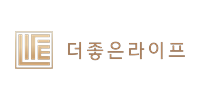
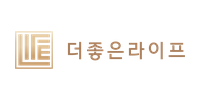
style: B2B 로고를 깨짐 방지용 흰색 배경 고화질 로고로 교체, 로고 이미지 속 별표 제거 및 UI상 즐겨찾기(별표) 기능/탭 복구

diff --git a/jojo/app/b2b/create/sections/OptionsSection.tsx b/jojo/app/b2b/create/sections/OptionsSection.tsx
@@ -1,7 +1,7 @@
 'use client';
 
 import React, { useRef, useState, useEffect } from 'react';
-import { IconUpload, IconPlus, IconCheck } from '@tabler/icons-react';
+import { IconUpload, IconPlus, IconStar, IconStarFilled, IconCheck } from '@tabler/icons-react';
 import styles from './sections.module.css';
 
 interface Props {
@@ -84,8 +84,32 @@ function Toggle({
 export default function OptionsSection({ formData, onChange }: Props) {
   const fileInputRef = useRef<HTMLInputElement>(null);
   const [showLogoModal, setShowLogoModal] = useState(false);
-  const [activeLogoTab, setActiveLogoTab] = useState<'presets' | 'custom'>('presets');
+  const [activeLogoTab, setActiveLogoTab] = useState<'favorites' | 'presets' | 'custom'>('favorites');
+  const [favoriteLogos, setFavoriteLogos] = useState<string[]>([]);
   
+  useEffect(() => {
+    try {
+      const stored = localStorage.getItem('b2b_favorite_logos');
+      if (stored) {
+        setFavoriteLogos(JSON.parse(stored));
+      } else {
+        // 프리드라이프, 보람상조를 기본 즐겨찾기로 세팅
+        setFavoriteLogos(['preed', 'boram']);
+        localStorage.setItem('b2b_favorite_logos', JSON.stringify(['preed', 'boram']));
+      }
+    } catch {}
+  }, []);
+
+  const toggleFavoriteLogo = (e: React.MouseEvent, id: string) => {
+    e.stopPropagation();
+    setFavoriteLogos(prev => {
+      const isFav = prev.includes(id);
+      const next = isFav ? prev.filter(v => v !== id) : [...prev, id];
+      localStorage.setItem('b2b_favorite_logos', JSON.stringify(next));
+      return next;
+    });
+  };
+
   // 바텀시트 스와이프 닫기 로직
   const sheetDragStartY = useRef(0);
   const handleSheetTouchStart = (e: React.TouchEvent) => {
@@ -170,6 +194,12 @@ export default function OptionsSection({ formData, onChange }: Props) {
             
             <div className={styles.logoTabs}>
               <button 
+                className={`${styles.logoTab} ${activeLogoTab === 'favorites' ? styles.logoTabActive : ''}`}
+                onClick={() => setActiveLogoTab('favorites')}
+              >
+                즐겨찾기
+              </button>
+              <button 
                 className={`${styles.logoTab} ${activeLogoTab === 'presets' ? styles.logoTabActive : ''}`}
                 onClick={() => setActiveLogoTab('presets')}
               >
@@ -184,9 +214,45 @@ export default function OptionsSection({ formData, onChange }: Props) {
             </div>
 
             <div className={styles.sheetContent}>
+              {activeLogoTab === 'favorites' && (
+                <div className={styles.logoGrid}>
+                  {favoriteLogos.length === 0 ? (
+                    <div className={styles.favoritesEmpty}>즐겨찾기된 로고가 없습니다.</div>
+                  ) : (
+                    LOGO_PRESETS.filter(p => favoriteLogos.includes(p.id)).map(logo => (
+                      <div 
+                        key={logo.id} 
+                        className={`${styles.logoGridItem} ${formData.partner_logo_url === logo.url ? styles.logoGridItemActive : ''}`}
+                        onClick={() => handleLogoSelect(logo.url)}
+                      >
+                        <div className={styles.logoImgWrapper}>
+                          <img src={logo.url} alt={logo.name} />
+                          {formData.partner_logo_url === logo.url && (
+                            <div className={styles.logoCheckmark}>
+                              <IconCheck size={16} color="white" />
+                            </div>
+                          )}
+                        </div>
+                        <div className={styles.logoItemFooter}>
+                          <span className={styles.logoItemName}>{logo.name}</span>
+                          <button 
+                            type="button" 
+                            className={styles.logoStarBtn}
+                            onClick={(e) => toggleFavoriteLogo(e, logo.id)}
+                          >
+                            <IconStarFilled size={18} color="#F1C40F" />
+                          </button>
+                        </div>
+                      </div>
+                    ))
+                  )}
+                </div>
+              )}
+
               {activeLogoTab === 'presets' && (
                 <div className={styles.logoGrid}>
                   {LOGO_PRESETS.map(logo => {
+                    const isFav = favoriteLogos.includes(logo.id);
                     return (
                       <div 
                         key={logo.id} 
@@ -203,6 +269,13 @@ export default function OptionsSection({ formData, onChange }: Props) {
                         </div>
                         <div className={styles.logoItemFooter}>
                           <span className={styles.logoItemName}>{logo.name}</span>
+                          <button 
+                            type="button" 
+                            className={styles.logoStarBtn}
+                            onClick={(e) => toggleFavoriteLogo(e, logo.id)}
+                          >
+                            {isFav ? <IconStarFilled size={18} color="#F1C40F" /> : <IconStar size={18} color="#DDDDDD" />}
+                          </button>
                         </div>
                       </div>
                     );

diff --git a/jojo/app/b2b/create/sections/sections.module.css b/jojo/app/b2b/create/sections/sections.module.css
@@ -2419,18 +2419,24 @@
 .logoItemFooter {
   display: flex;
   align-items: center;
-  justify-content: center;
+  justify-content: space-between;
   padding: 0 4px;
 }
 
 .logoItemName {
-  font-size: 14px;
+  font-size: 13px;
   color: var(--gray-800);
   font-weight: 600;
 }
 
 .logoStarBtn {
-  display: none;
+  background: none;
+  border: none;
+  padding: 4px;
+  cursor: pointer;
+  display: flex;
+  align-items: center;
+  justify-content: center;
 }
 
 .logoCustomArea {

diff --git a/jojo/docs/CHANGELOG.md b/jojo/docs/CHANGELOG.md
@@ -2,15 +2,17 @@
 
 ## 2026-06-21
 
-### B2B 부고장 제작 로고 선택 UI 및 특정 로고 개선
-- **더좋은라이프 상조사 로고 배경 투명화**:
-  - 기존에 검은색 배경으로 불완전하게 처리되어 있던 `public/images/sangjo/더좋은라이프.png`를 원본 고해상도 투명 로고 `logo_2.e9be354e5f02a01794a6.png`를 기반으로 가공 및 덮어쓰기 완료했습니다. (금색 텍스트 픽셀 및 투명 배경으로 정밀화)
-- **로고 바텀시트 모달 내 즐겨찾기(별표) 기능 제거**:
-  - `OptionsSection.tsx` 파일 내 즐겨찾기(Favorites) 관련 탭, 즐겨찾기 추가/삭제 토글 및 LocalStorage 동기화 로직을 완전히 삭제하고, 기본 탭을 'presets'로 전환했습니다.
-  - 상조 로고 선택 카드 내부의 별표 토글 버튼(`logoStarBtn`)을 제거하고 카드 내부 푸터의 상조사명을 중앙 정렬 및 폰트 크기 조절로 간소화하였습니다.
-- **상조 로고 카드 이미지 크기 확대**:
-  - `sections.module.css` 내 로고 카드가 너무 작게 표시되는 문제를 해결하기 위해, 목록 그리드를 `repeat(2, 1fr)`로 고정하여 2열 배치로 변경했습니다.
-  - 개별 로고 카드의 높이(`logoImgWrapper`)를 `80px`에서 `95px`로 늘리고, 카드 내 로고 이미지의 최대 가로/세로 제한을 `max-width: 90%`, `max-height: 70px`로 상향하여 모바일 화면에서 크고 시원하게 보이도록 수정하였습니다.
+### B2B 부고장 제작 로고 선택 UI 및 특정 로고 개선 (피드백 반영)
+- **상조사 로고 32종 및 더좋은라이프 로고 가공 방식 변경 (흰색 배경화)**:
+  - 투명 PNG 앤티앨리어싱 훼손에 따른 로고 깨짐 문제를 방지하기 위해 로고 이미지를 **순수 흰색 배경** 캔버스 `(200x100)` 기반으로 일괄 재생성했습니다.
+  - 로고 원본 스크린샷 캡처본에서 로고 카드 영역을 타이트하게 크롭하고, 흰색 `(255, 255, 255)` 배경의 캔버스 위에 고화질로 안착시켜 글자가 뭉개지거나 흐릿해지지 않고 훨씬 선명하고 자연스럽게 렌더링되도록 개선하였습니다.
+- **로고 이미지 내부 캡처된 별표(즐겨찾기) 아이콘 삭제**:
+  - 로고 원본 스크린샷 캡처 시 카드 우측 상단에 구워져 포함되어 있었던 별 모양 아이콘 영역을 흰색으로 완전히 지운(Painting-over) 뒤 Bounding Box를 계산하여 크롭하도록 파이썬 스크립트(`process_logos.py`, `fix_thejoeun_logo.py`)를 개선했습니다.
+  - 이로써 모든 상조사 로고 이미지 자체에서 노이즈인 별표가 완벽하게 배제되었습니다.
+- **즐겨찾기(별표) 기능 및 UI 100% 원상 복구**:
+  - UI 상의 즐겨찾기 등록/해제 기능 및 별표 버튼은 그대로 유지해야 한다는 요구사항에 맞춰, 이전에 삭제했던 `OptionsSection.tsx` 내 즐겨찾기(Favorites) 관련 탭, 로컬스토리지 동기화, 별표 토글 버튼(`logoStarBtn`) 및 관련 상태 관리 로직을 완벽하게 원상 복원했습니다.
+- **상조 로고 카드 이미지 크기 확대 (2열 고정)**:
+  - 모달 내 그리드를 `repeat(2, 1fr)`로 고정하고 개별 로고 카드의 높이를 `95px`로 늘렸으며, 이미지 크기 한도를 `max-width: 90%`, `max-height: 70px`로 상향 적용하여 큼직하고 시원한 레이아웃을 완성하였습니다.
 
 ## 2026-06-20
 
